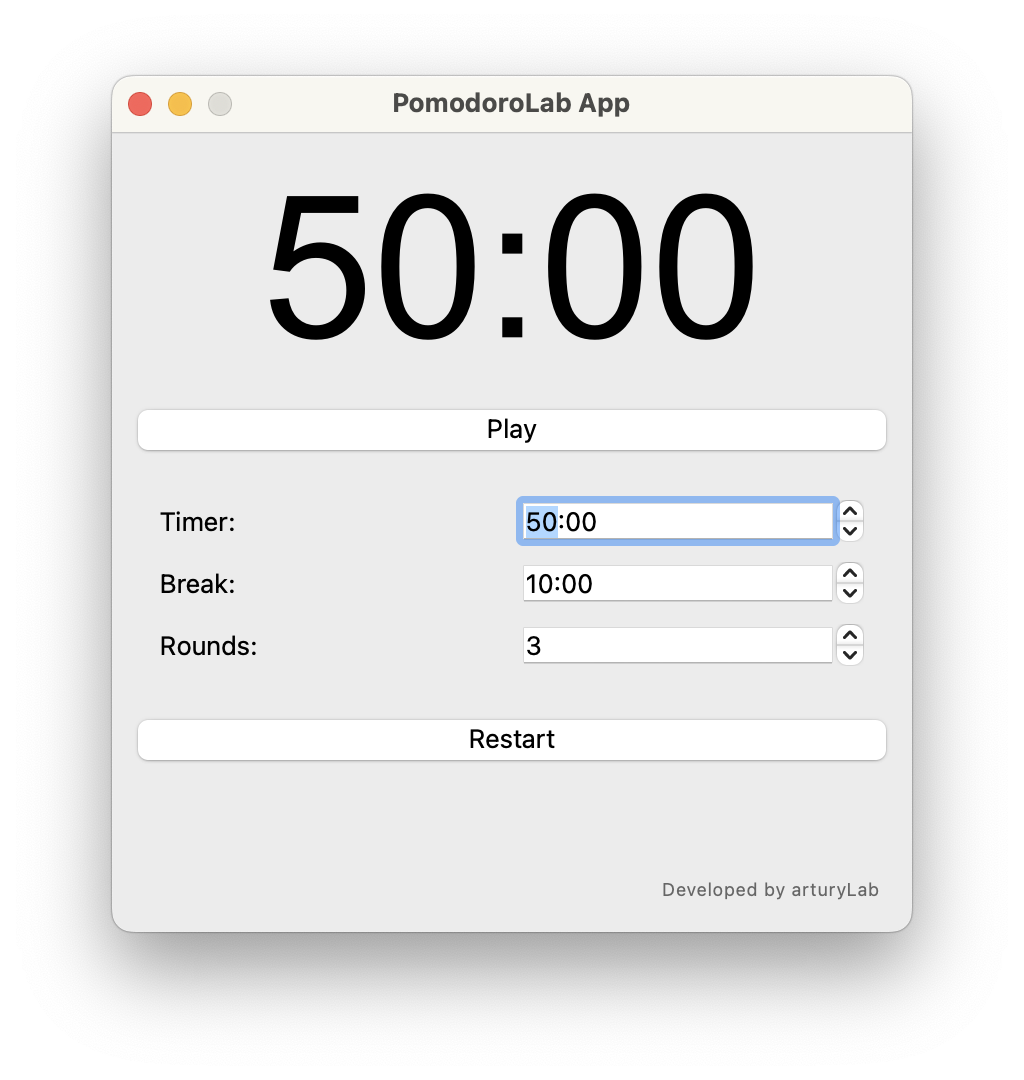
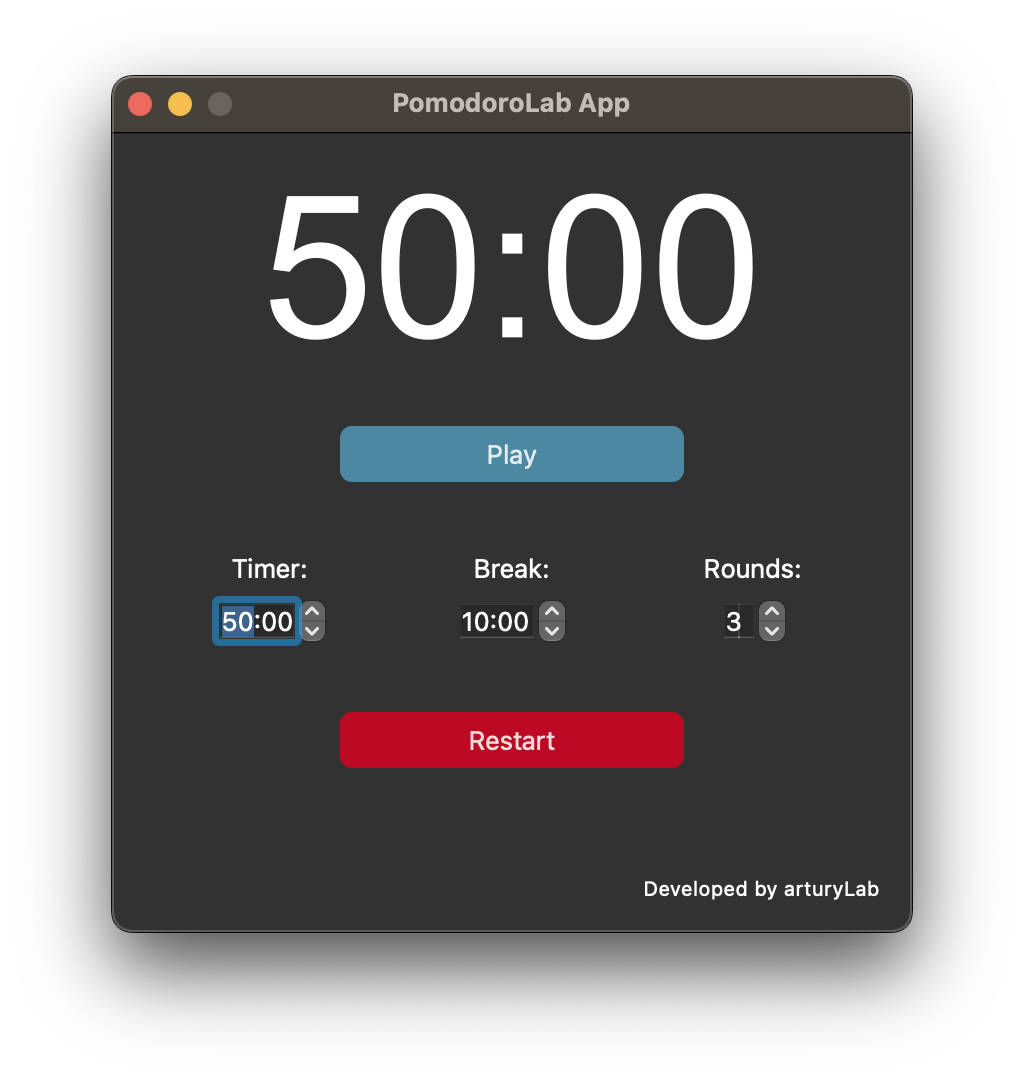
Update app.py with latest changes, color buttons and layout configuration

diff --git a/app.py b/app.py
@@ -5,7 +5,7 @@ Author: arturyLab
 
 import sys
 from PyQt5.QtWidgets import (QApplication, QMainWindow, QWidget, QVBoxLayout,
-                             QHBoxLayout, QLabel, QPushButton, QTimeEdit,
+                             QHBoxLayout, QLabel, QGridLayout,QPushButton, QTimeEdit,
                              QSpinBox, QFrame)
 from PyQt5.QtCore import QTimer, Qt, QTime
 from PyQt5.QtGui import QFont
@@ -54,37 +54,48 @@ class PomodoroTimer(QMainWindow):
         # Control Buttons Section
         self.play_pause_btn = QPushButton("Play")
         self.play_pause_btn.clicked.connect(self.toggle_timer)
-        main_layout.addWidget(self.play_pause_btn)
+        self.play_pause_btn.setStyleSheet("""
+            QPushButton {
+                background-color: #4b88a2;
+                border-radius: 6px;
+                min-width: 10em;
+                padding: 6px;
+            }
+            QPushButton:pressed {
+                background-color: #67a5bf;
+            }
+        """)
+        main_layout.addWidget(self.play_pause_btn, alignment=Qt.AlignCenter)
 
         # Settings Configuration Panel
         settings_frame = QFrame()
-        settings_layout = QVBoxLayout(settings_frame)
+        settings_layout = QHBoxLayout(settings_frame)
 
         # Work Duration Configuration
-        timer_layout = QHBoxLayout()
-        timer_layout.addWidget(QLabel("Timer:"))
+        timer_layout = QGridLayout()
+        timer_layout.addWidget(QLabel("Timer:"), 0, 0, alignment=Qt.AlignCenter)
         self.work_time = QTimeEdit()
         self.work_time.setDisplayFormat("mm:ss")
         self.work_time.setTime(QTime(0, 50, 0)) # Default work time 50 minutes
-        timer_layout.addWidget(self.work_time)
+        timer_layout.addWidget(self.work_time, 1, 0, alignment=Qt.AlignCenter)
         settings_layout.addLayout(timer_layout)
 
         # Break Duration Configuration
-        break_layout = QHBoxLayout()
-        break_layout.addWidget(QLabel("Break:"))
+        break_layout = QGridLayout()
+        break_layout.addWidget(QLabel("Break:"), 0 ,0, alignment=Qt.AlignCenter)
         self.break_time = QTimeEdit()
         self.break_time.setDisplayFormat("mm:ss")
         self.break_time.setTime(QTime(0, 10, 0)) # Default brake time 10 minutes
-        break_layout.addWidget(self.break_time)
+        break_layout.addWidget(self.break_time, 1, 0, alignment=Qt.AlignCenter)
         settings_layout.addLayout(break_layout)
 
         # Rounds Configuration
-        rounds_layout = QHBoxLayout()
-        rounds_layout.addWidget(QLabel("Rounds:"))
+        rounds_layout = QGridLayout()
+        rounds_layout.addWidget(QLabel("Rounds:"), 0, 0, alignment=Qt.AlignCenter)
         self.rounds = QSpinBox()
         self.rounds.setRange(1, 10) # Minimum 1, Maximum 10 rounds
         self.rounds.setValue(3) # Default rounds 2
-        rounds_layout.addWidget(self.rounds)
+        rounds_layout.addWidget(self.rounds, 1, 0, alignment=Qt.AlignCenter)
         settings_layout.addLayout(rounds_layout)
 
         main_layout.addWidget(settings_frame)
@@ -97,7 +108,18 @@ class PomodoroTimer(QMainWindow):
         # System Control Buttons
         self.restart_btn = QPushButton("Restart")
         self.restart_btn.clicked.connect(self.reset_timer)
-        main_layout.addWidget(self.restart_btn)
+        self.restart_btn.setStyleSheet("""
+            QPushButton {
+                background-color: #bb0a21;
+                border-radius: 6px;
+                min-width: 10em;
+                padding: 6px;
+            }
+            QPushButton:pressed {
+                background-color: #d43c50;
+            }
+        """)
+        main_layout.addWidget(self.restart_btn, alignment=Qt.AlignCenter)
 
         # Timer Mechanisn Setup
         self.timer = QTimer()
@@ -108,8 +130,7 @@ class PomodoroTimer(QMainWindow):
         self.developer_label.setAlignment(Qt.AlignRight | Qt.AlignBottom)
         self.developer_label.setStyleSheet("""
             QLabel {
-                font-size: 9px;
-                color: #666;
+                font-size: 10px;
                 padding: 2px;
             }
         """)
@@ -179,9 +200,9 @@ class PomodoroTimer(QMainWindow):
 
     def handle_session_end(self):
         """Manage session transitions and round completion"""
+        QSound.play(self.sound_file) # Play alarm
         if self.current_session == "work":
             self.rounds_completed += 1
-            QSound.play(self.sound_file) # Play alarm
             
             # Check if all rounds completed
             if self.rounds_completed >= self.rounds.value():
